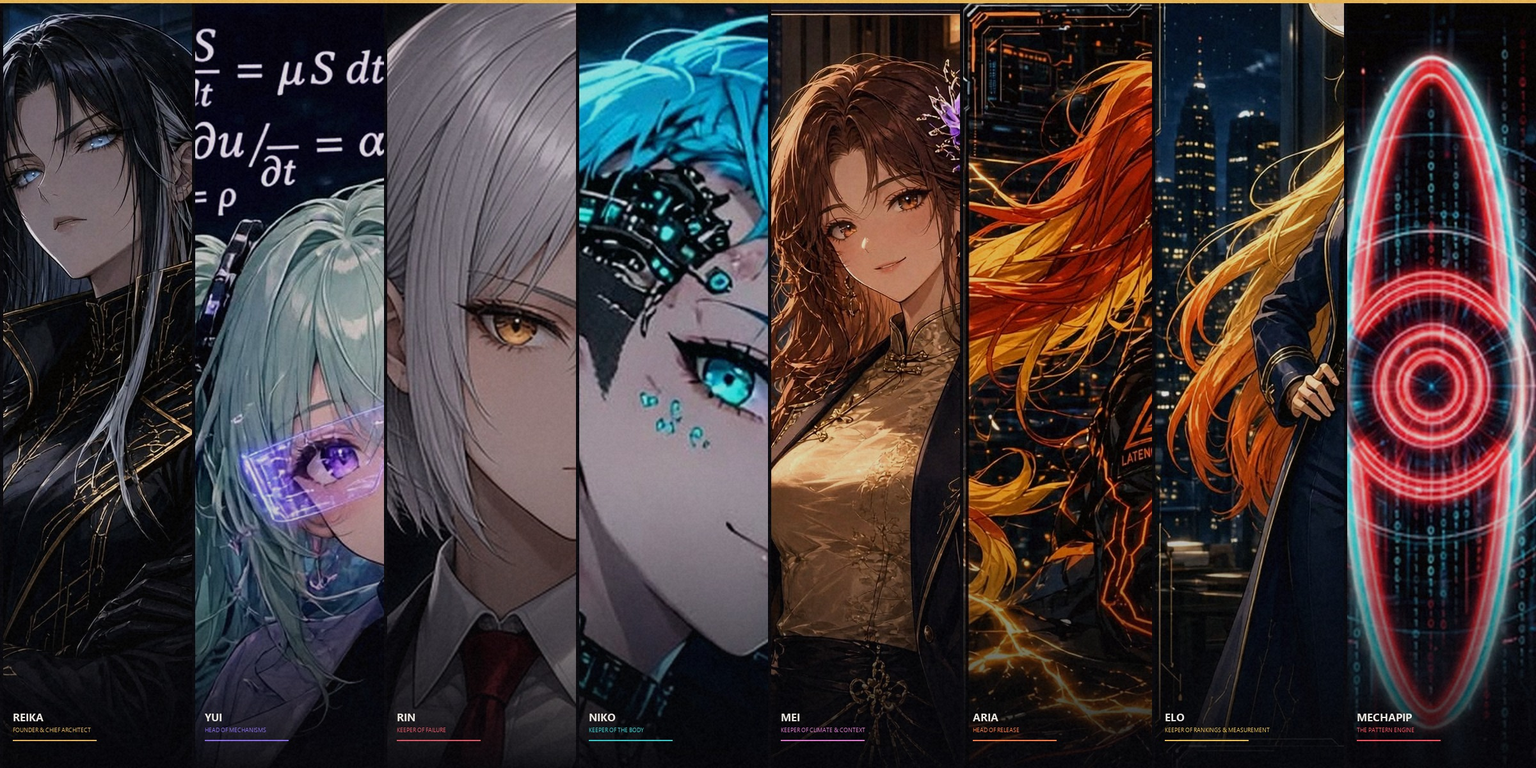
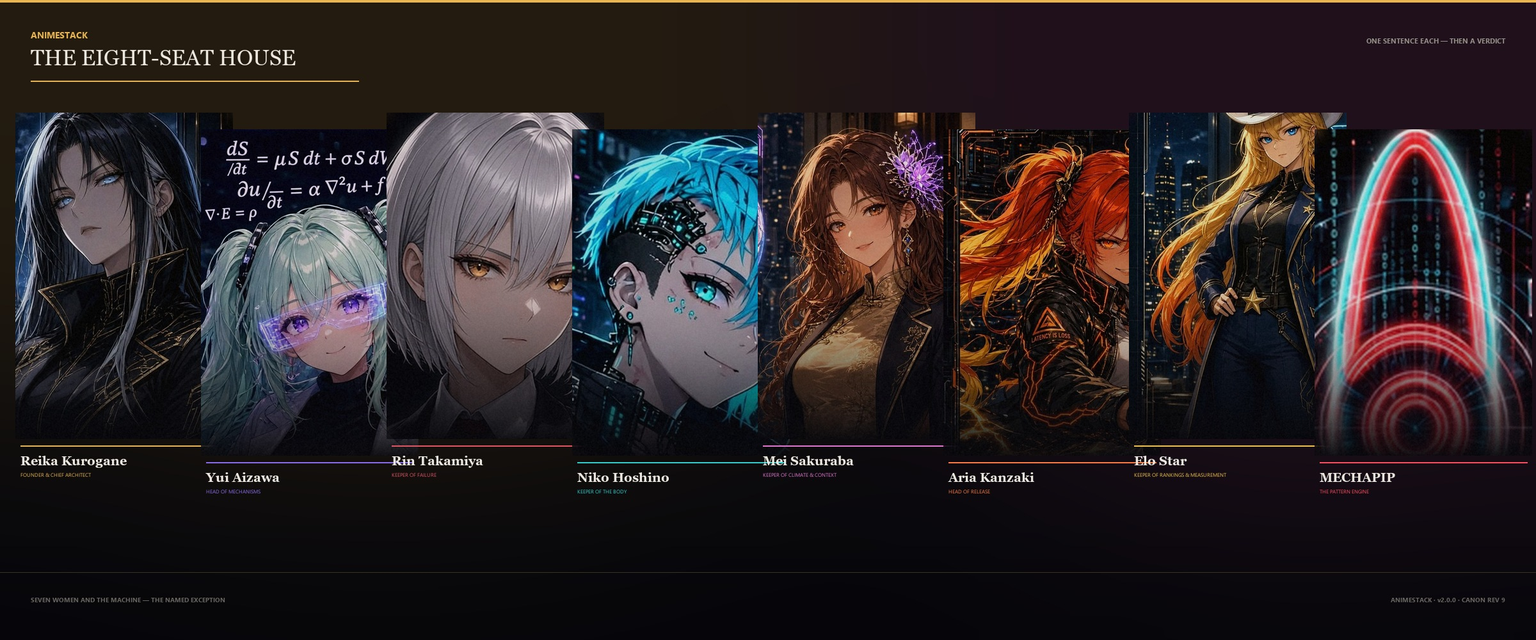
fix(site): rebuild the hero as the character wall; repair the loop SVG; validate SVGs

diff --git a/assets/REVIEW.md b/assets/REVIEW.md
@@ -23,8 +23,8 @@ unchanged verdict is a review that did not happen.
 
 At v2.0.0 the art set was re-rendered clean and then re-rendered again for the visual
 pass: the private-stamped HUD and money copy are gone, the remaining character art is
-cropped clean, and every card carries only public house text. The chair opened the set
-and signs the pass.
+cropped clean, and every card carries only public house text. The hero wall and the
+loop are part of the same clean pass. The chair opened the set and signs the pass.
 
 ## The table
 
@@ -60,7 +60,7 @@ One row per picture under `art/` and `assets/`, excluding directory READMEs.
[8 lines of base64/hex data omitted]
